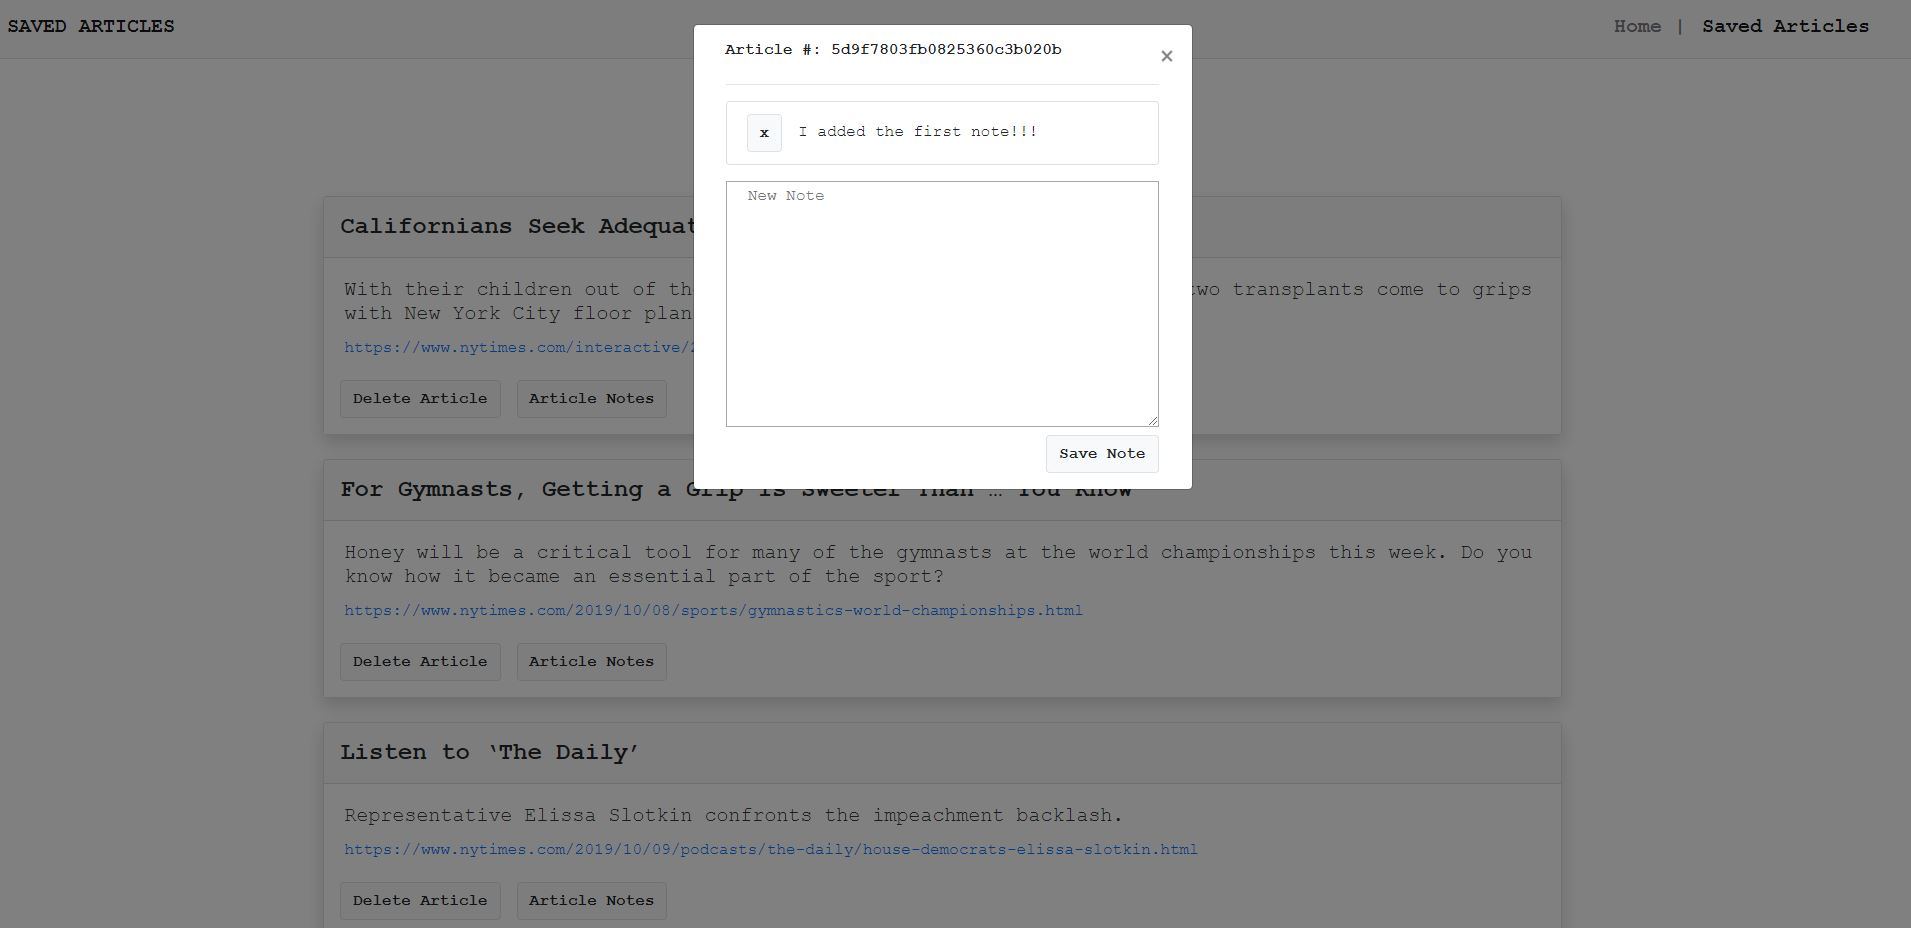
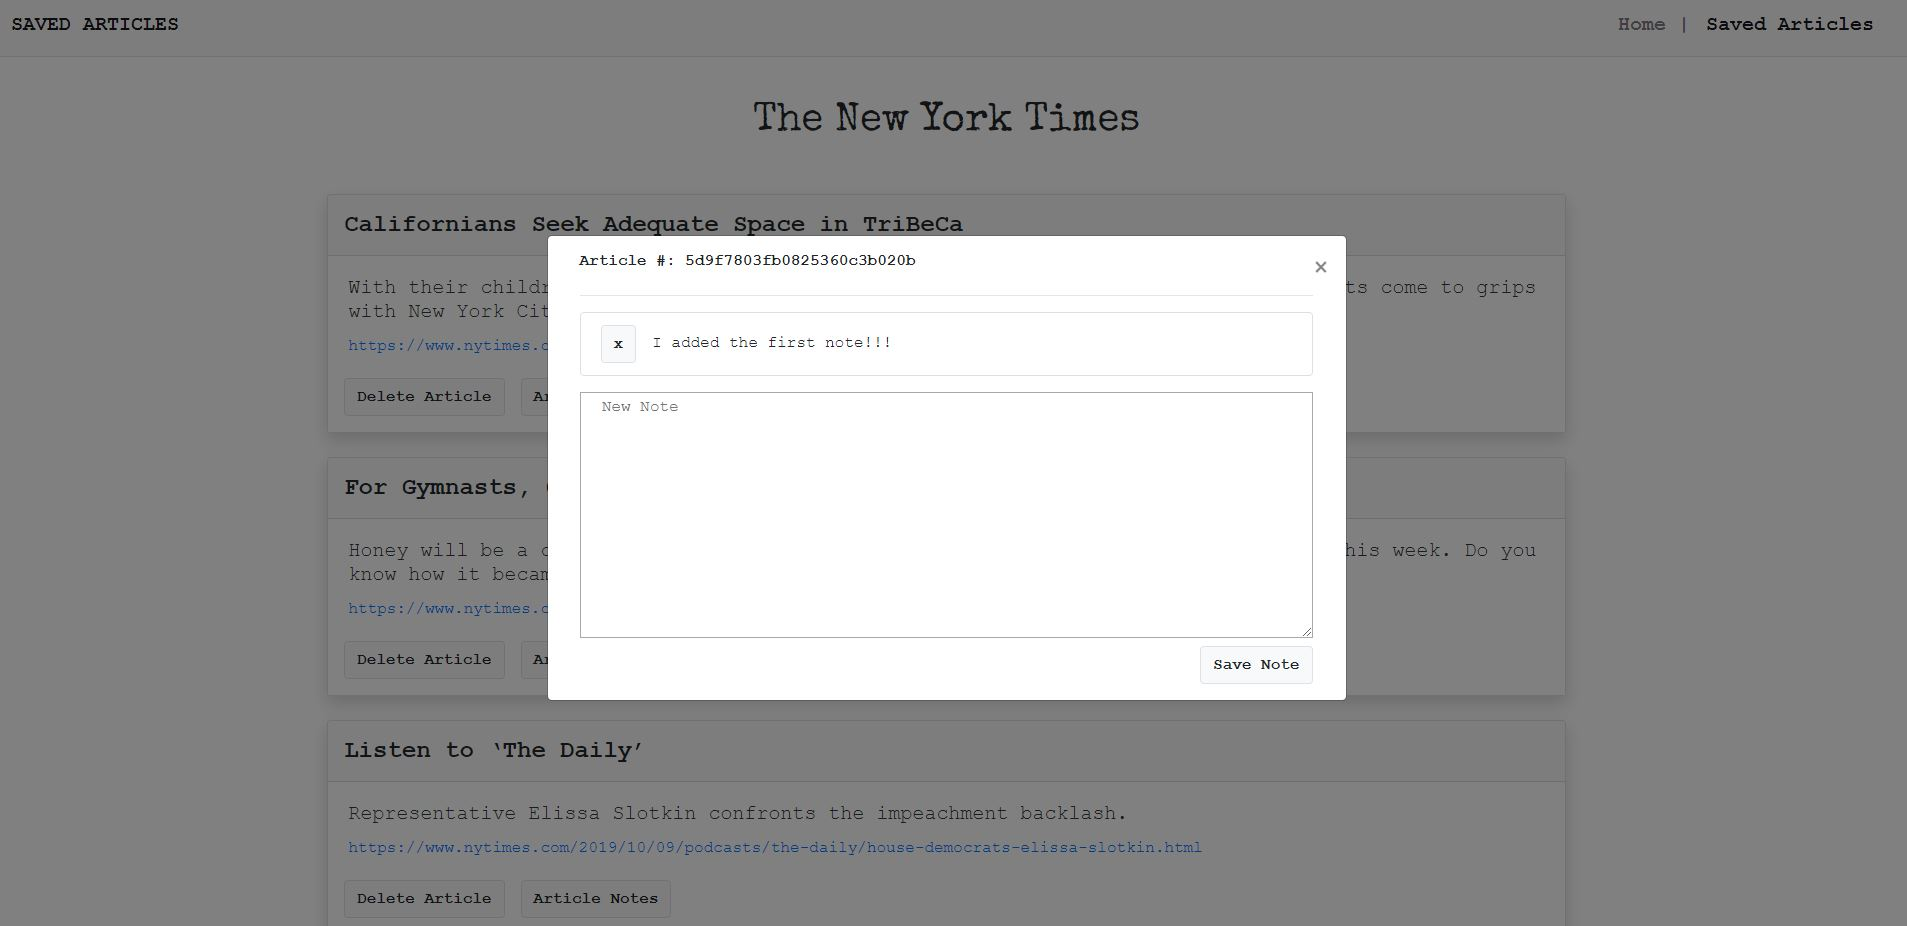
image replace, css

diff --git a/public/assets/javascript/saved.js b/public/assets/javascript/saved.js
@@ -131,23 +131,27 @@ $(document).ready(function () {
         // Grab any notes with this headline/article id
         $.get("/api/notes/" + currentArticle._id).then(function (data) {
             // Constructing initial HTML to add to the notes modal
+            
             var modalText = [
-                "<div class='card border-0 pl-3'>",
-                "<h6>Article #: ",
+                "<div class='card border-0 pt-3 pl-3'>",
+                "<h5>Article #: ",
                 currentArticle._id,
-                "</h6>",
+                "</h5>",
                 "<hr />",
                 "<ul class='list-group  mb-3 note-container'>",
                 "</ul>",
-                "<textarea placeholder='  New Note' rows='10' cols='60''></textarea>",
+                "<textarea placeholder='  Add New Note' rows='10' cols='60''></textarea>",
                 "<button class='btn btn-light border  ml-auto mt-2 save'>Save Note</button>",
                 "</div>"
             ].join("");
+
             // Adding the formatted HTML to the note modal
             bootbox.dialog({
                 message: modalText,
                 closeButton: true,
-                centerVertical: true
+                centerVertical: true,
+                size: 'large'
+                                             
             });
             var noteData = {
                 _id: currentArticle._id,

diff --git a/public/assets/css/style.css b/public/assets/css/style.css
@@ -40,9 +40,12 @@ h4,
 .navbar-brand,
 .nav-item,
 .btn,
-h6 {
+h6,
+h5 {
     font-weight: bolder;
 }
+
+
 
 /* .caption {
     height: 150px;;
